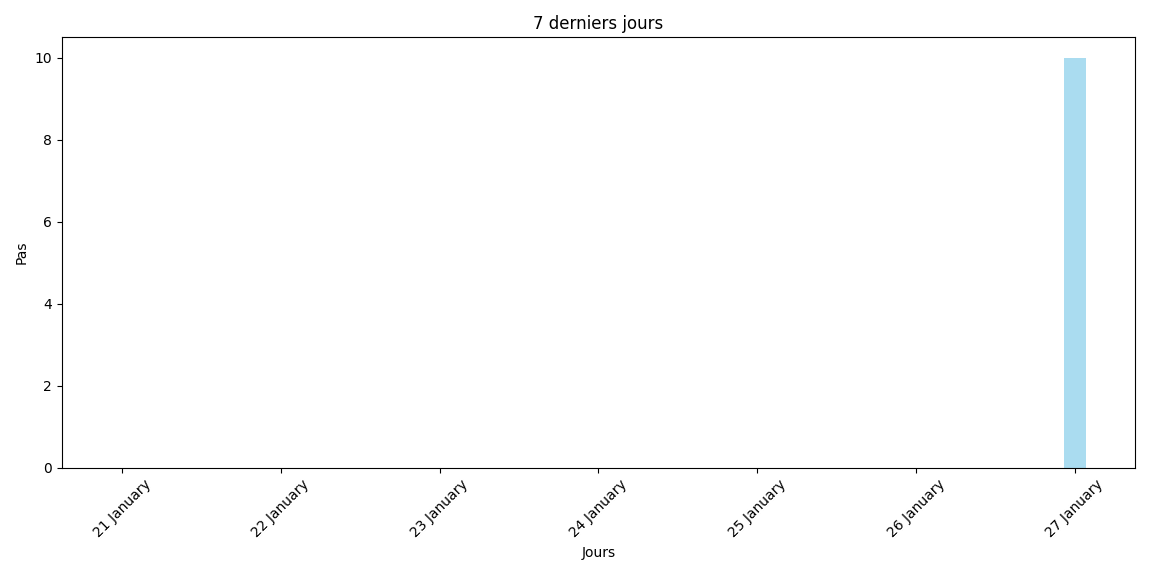
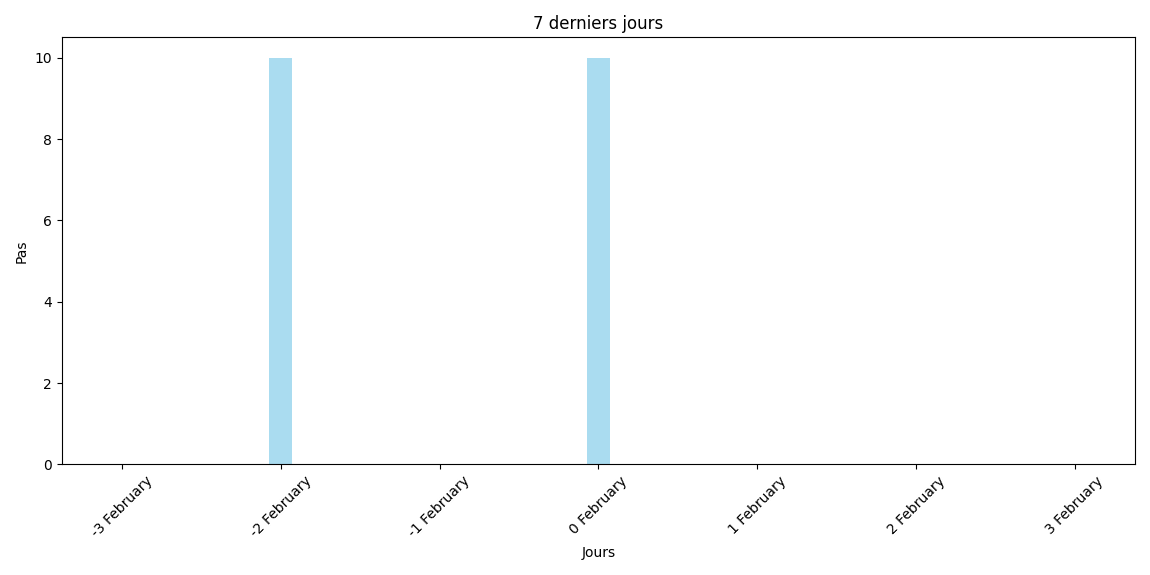
d
Bug correction update v1 :
      the year graphic wasn t working really, there was a temporary mesure taken, no it works well
      the day graphic had his data inversed in term of days, corrected

For v2 the graphic will take into account the month because for now the 31 january today, is noted 0 february

diff --git a/main/main_tools.py b/main/main_tools.py
@@ -52,7 +52,7 @@ def get_last_seven_days_value(data_type, all_data):
     today = datetime.datetime.now()
     lasts_days_values = []
     
-    for i in range(7):
+    for i in range(6, -1, -1):
         day = today - datetime.timedelta(days=i)
         current_day = day.day
         year = day.year
@@ -119,7 +119,7 @@ def get_last_year_values(data_type, all_data):
     today = datetime.datetime.now()
     current_month = int(today.month)
     month_values = []
-    for month in range(current_month + 1):
+    for month in range(1, current_month +1 ):
         values_list = get_month_values(data_type, all_data, month)
         mean_value = calculate_mean(values_list)
         month_values.append(mean_value)

diff --git a/main/data_show.py b/main/data_show.py
@@ -61,10 +61,14 @@ def create_month_graph(the_data_label, the_data_to_graph):
     
 def create_year_graph(the_data_label, list_of_the_data_to_graph):
     labels = []
-
-    for i in range(2): # 12 mois
-        labels.append(calendar.month_name[i + 1])
-    
+    today = datetime.datetime.now()
+    current_month = today.month
+    print(current_month)
+    for i in range(current_month): # 12 mois
+        print(i)
+        labels.append(calendar.month_name[i+1])
+    print(labels)
+    print(list_of_the_data_to_graph)
     # Création de la figure et de l'axe
     fig, ax1 = plt.subplots()
 
